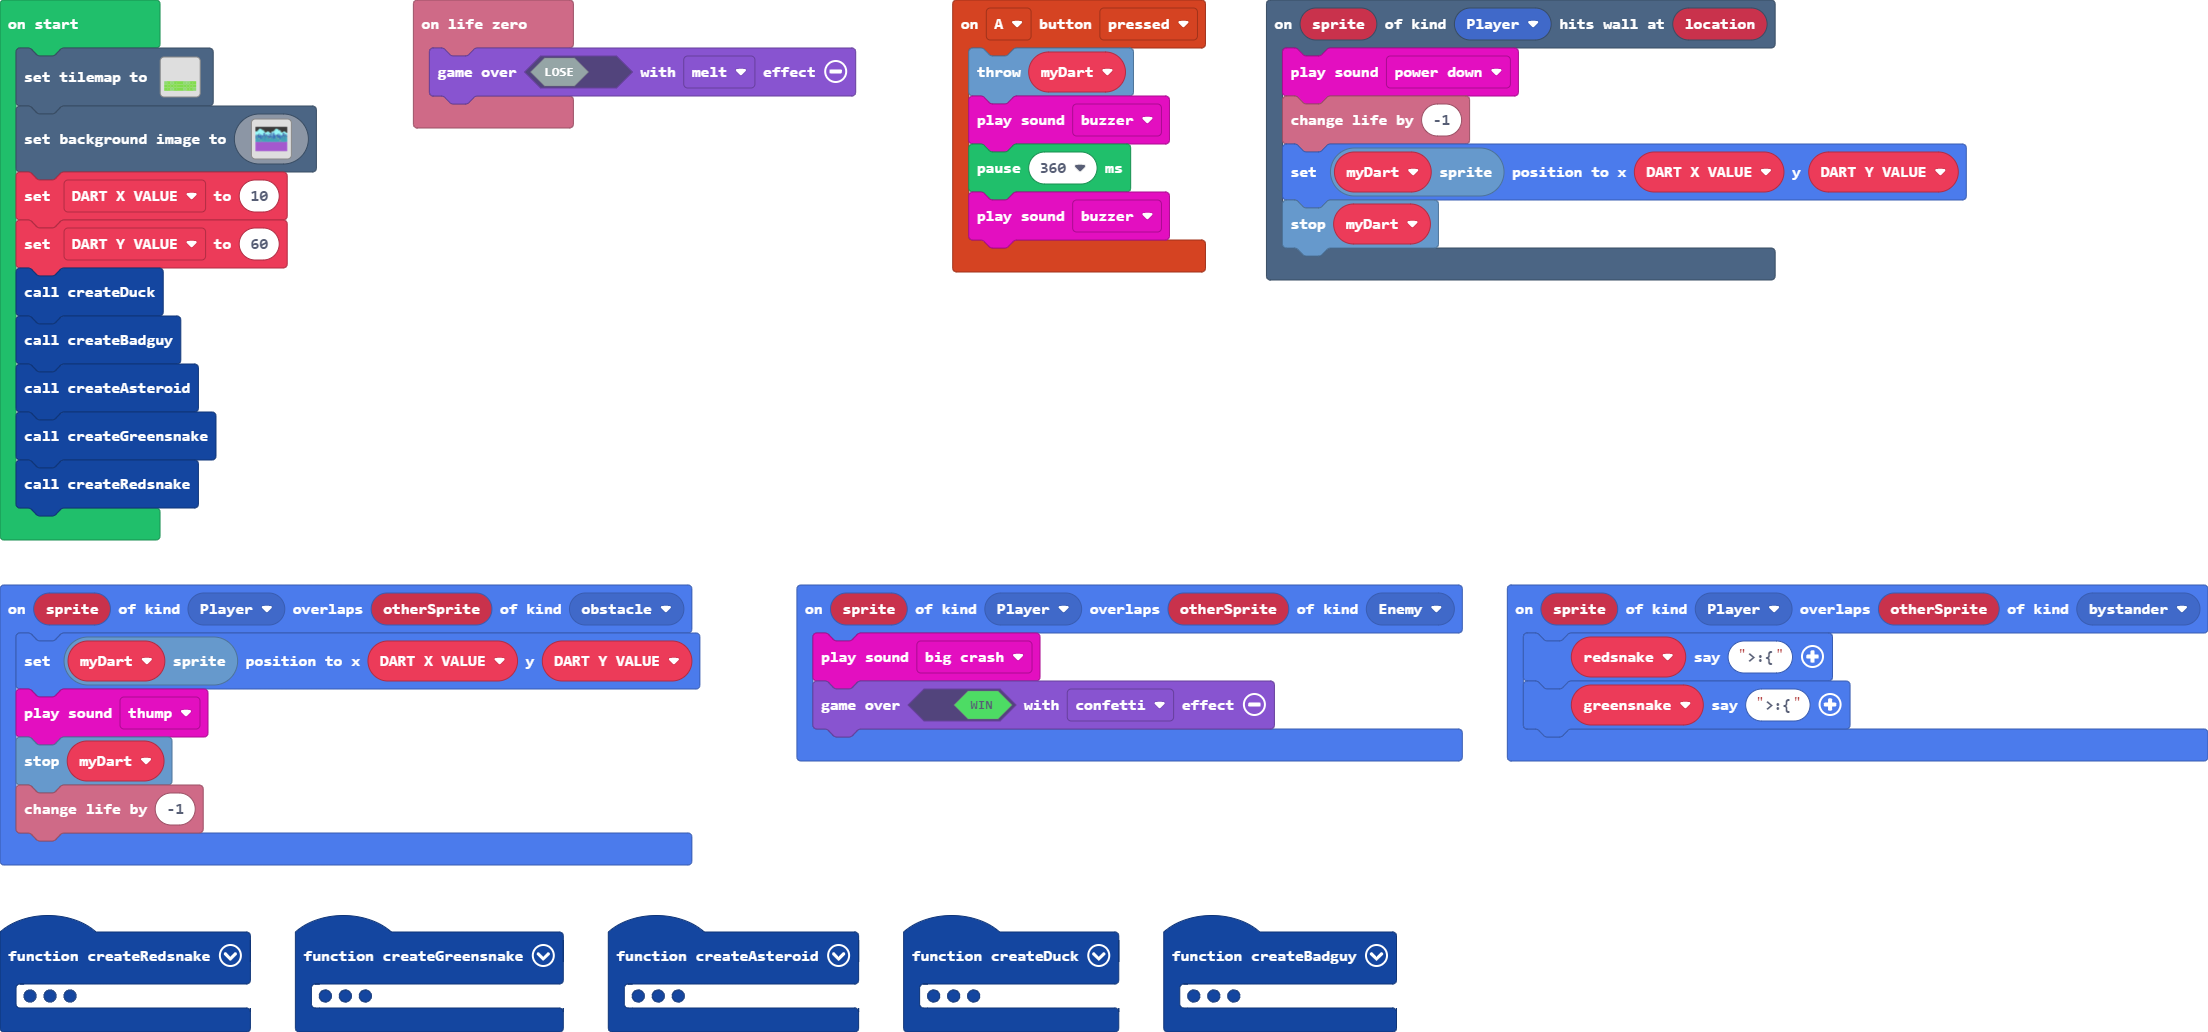
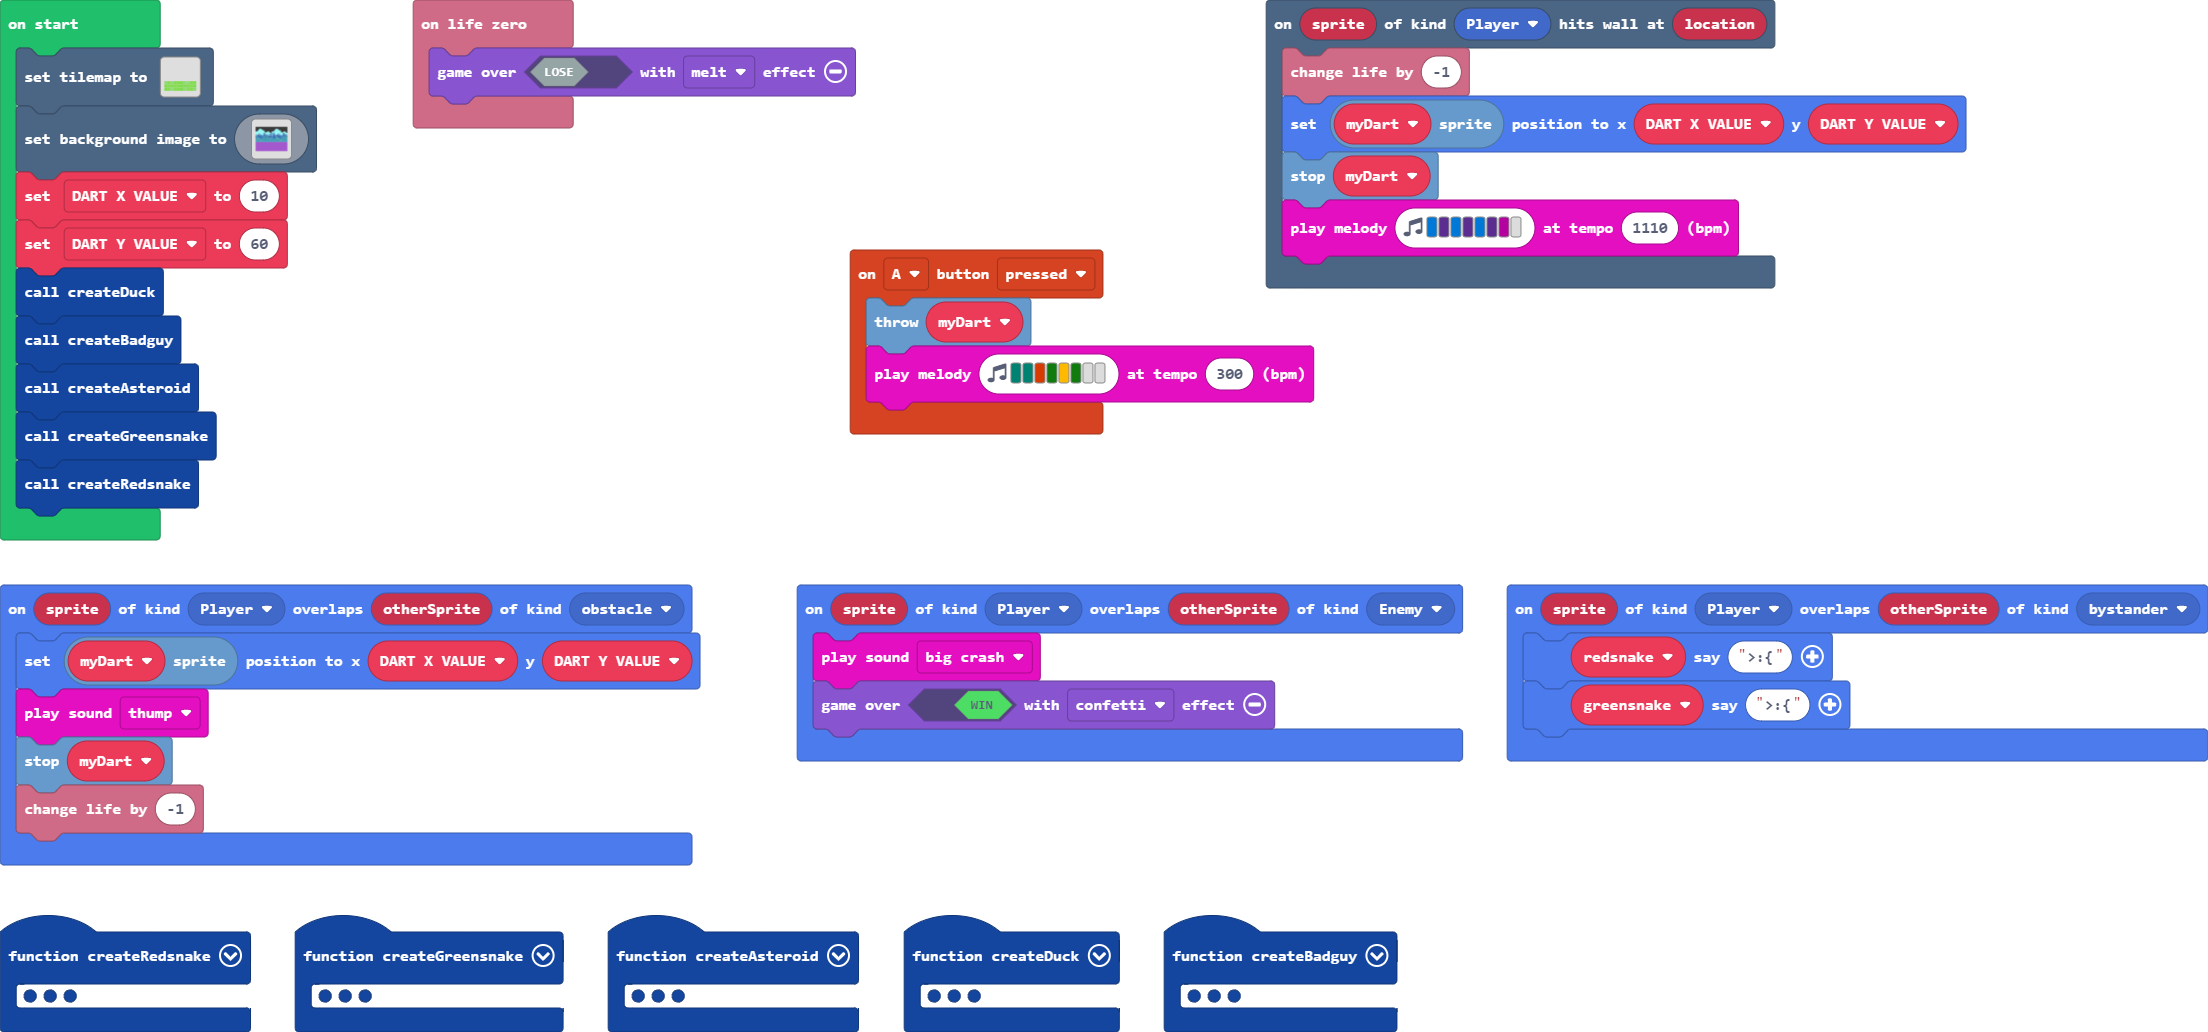
changed "quack" to a melody and added some animations

diff --git a/main.ts b/main.ts
@@ -3,16 +3,14 @@ namespace SpriteKind {
     export const bystander = SpriteKind.create()
 }
 scene.onHitWall(SpriteKind.Player, function (sprite, location) {
-    music.powerDown.play()
     info.changeLifeBy(-1)
     myDart.sprite.setPosition(DART_X_VALUE, DART_Y_VALUE)
     myDart.stopDart()
+    music.playMelody("E D E D E D C - ", 1110)
 })
 controller.A.onEvent(ControllerButtonEvent.Pressed, function () {
     myDart.throwDart()
-    music.buzzer.play()
-    pause(360)
-    music.buzzer.play()
+    music.playMelody("F F B G A G - - ", 300)
 })
 function createAsteroid () {
     for (let index = 0; index < 3; index++) {
@@ -35,6 +33,46 @@ function createAsteroid () {
             . . . . . . b 3 3 c c . . . . . 
             `, SpriteKind.obstacle)
         obstacle.setPosition(randint(60, 160), randint(88, 0))
+        animation.runImageAnimation(
+        obstacle,
+        [img`
+            . . . . . . . . c c c c . . . . 
+            . . . . c c c c c c c c c . . . 
+            . . . c f c c a a a a c a c . . 
+            . . c c f f f f a a a c a a c . 
+            . . c c a f f c a a f f f a a c 
+            . . c c a a a a b c f f f a a c 
+            . c c c c a c c b a f c a a c c 
+            c a f f c c c a b b 6 b b b c c 
+            c a f f f f c c c 6 b b b a a c 
+            c a a c f f c a 6 6 b b b a a c 
+            c c b a a a a b 6 b b a b b a . 
+            . c c b b b b b b b a c c b a . 
+            . . c c c b c c c b a a b c . . 
+            . . . . c b a c c b b b c . . . 
+            . . . . c b b a a 6 b c . . . . 
+            . . . . . . b 6 6 c c . . . . . 
+            `,img`
+            . . . . . . . c c c a c . . . . 
+            . . c c b b b a c a a a c . . . 
+            . c c a b a c b a a a b c c . . 
+            . c a b c f f f b a b b b a . . 
+            . c a c f f f 8 a b b b b b a . 
+            . c a 8 f f 8 c a b b b b b a . 
+            c c c a c c c c a b c f a b c c 
+            c c a a a c c c a c f f c b b a 
+            c c a b 6 a c c a f f c c b b a 
+            c a b c 8 6 c c a a a b b c b c 
+            c a c f f a c c a f a c c c b . 
+            c a 8 f c c b a f f c b c c c . 
+            . c b c c c c b f c a b b a c . 
+            . . a b b b b b b b b b b b c . 
+            . . . c c c c b b b b b c c . . 
+            . . . . . . . . c b b c . . . . 
+            `],
+        500,
+        true
+        )
     }
 }
 sprites.onOverlap(SpriteKind.Player, SpriteKind.obstacle, function (sprite, otherSprite) {

diff --git a/tilemap.g.ts b/tilemap.g.ts
@@ -4,6 +4,8 @@ namespace myTiles {
     export const transparency16 = image.ofBuffer(hex``);
     //% fixedInstance jres blockIdentity=images._tile
     export const tile1 = image.ofBuffer(hex``);
+    //% fixedInstance jres blockIdentity=images._tile
+    export const tile2 = image.ofBuffer(hex``);
 
     helpers._registerFactory("tilemap", function(name: string) {
         switch(helpers.stringTrim(name)) {
@@ -30,7 +32,7 @@ namespace myTiles {
 2 2 2 2 2 2 2 2 2 2 
 2 2 2 2 2 2 2 2 2 2 
 2 2 2 2 2 2 2 2 2 2 
-`, [myTiles.transparency16,sprites.castle.tileGrass2,sprites.castle.tileGrass1,sprites.castle.tileGrass3,myTiles.tile1], TileScale.Sixteen);
+`, [myTiles.transparency16,sprites.castle.tileGrass2,sprites.castle.tileGrass1,sprites.castle.tileGrass3,myTiles.tile2], TileScale.Sixteen);
         }
         return null;
     })
@@ -40,6 +42,8 @@ namespace myTiles {
             case "transparency16":return transparency16;
             case "myTile":
             case "tile1":return tile1;
+            case "myTile0":
+            case "tile2":return tile2;
         }
         return null;
     })
